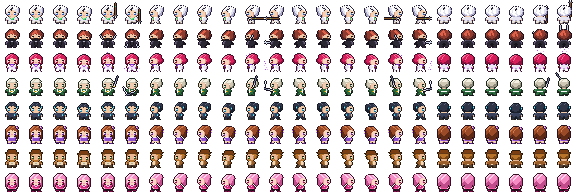
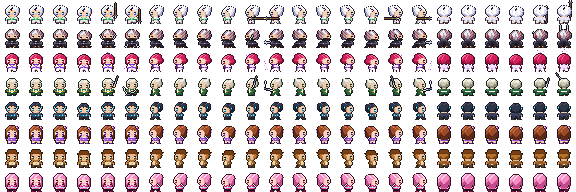
art: hero/NPC polish — Kavega grey+crimson hair, trench-coat tails (per-char legs), leather boots; belts with buckles

Changed region(s): [[0.0, 0.1562, 1.0, 0.25]]

diff --git a/tools/mc-sprites/chibi_art.py b/tools/mc-sprites/chibi_art.py
@@ -510,3 +510,56 @@ KYUT = dict(
 CHARS = {'spearman': NOF, 'rogue': KAV, 'mage': MAR, 'warrior': VEL, 'alzi': ALZI, 'leyr': LEYR, 'petr': PETR, 'kyut': KYUT}
 # у Мариэль, Лэйр и Кьют вместо брюк — юбка/платье: верх «ног» в цвете ткани
 SKIRT = {'mage': 'B', 'leyr': 'B', 'kyut': 'B'}
+
+# =============== полировка v2 (арт-перерисовка): детали одежды, Кавега ===============
+def _sub(rows, fn):
+    return [''.join(fn(x, y, ch) for x, ch in enumerate(r)) for y, r in enumerate(rows)]
+
+# Кавега: волосы — серые с прядями багрово-каштанового (Q/q), сапоги кожаные с пряжкой, длинные полы плаща (свои «ноги»).
+KAV['pal'].update({'1': '#eceaf2', '2': '#a8a3b6', '3': '#5d566a', 'Q': '#c23a2e', 'q': '#7a2130',
+                   'K': '#5b3a2c', 'k': '#2e1c18', 'Y': '#d7b26a'})
+def _kav_hair(x, y, ch):
+    if y > 11: return ch
+    # мелирование: серая основа, правая сторона — багрово-каштановые пряди, плюс одна прядь у лица слева
+    if ch in '23' and ((x >= 9 and (x + y) % 3 == 0) or (x in (3, 4) and 5 <= y <= 9)):
+        return 'Q' if ch == '2' else 'q'
+    return ch
+for _d in ('down', 'left', 'up'): KAV[_d] = _sub(KAV[_d], _kav_hair)
+KAV['legs'] = {
+    'down': [
+        ["..oBBPPppPPPBo..",
+         "..oCBPpooKYKCBo.",
+         "..oCoKYKo.okkoo."],
+        ["..oBBPPppPPBBo..",
+         "..oCBoKYooYKoBCo"[:16],
+         "..oCoKKkooKKkoC."],
+        ["..oBBPPPppPPBBo.",
+         ".oBCKYKoopPPoCo.",
+         ".oCookko.oKYKoo."],
+    ],
+    'left': [
+        ["...oPPPPPPpoBBo.",
+         "..oKPPo.oPpoCBBo",
+         "..oKYo...oKYoCCo"],
+        ["....oPPPPpoBBo..",
+         "....oPPopPoCBBo.",
+         "....oKYoKYo.oCCo"],
+        ["....oPPPPpoBBBo.",
+         ".....oPPpoCBBo..",
+         ".....oKYKko.oo.."],
+    ],
+}
+KAV['legs']['up'] = KAV['legs']['down']
+
+# всем героям/NPC атласа: пояс с пряжкой на последней строке корпуса (вид спереди/сбоку) и блик на носке обуви
+def _belt(rows, row=16):
+    r = list(rows[row])
+    inner = [i for i, ch in enumerate(r) if ch in 'ABC']
+    if len(inner) >= 4:
+        for i in inner: r[i] = 'x'
+        mid = (inner[0] + inner[-1]) // 2
+        r[mid] = 'X'
+    rows = list(rows); rows[row] = ''.join(r); return rows
+for _c in CHARS.values():
+    for _d in ('down', 'left'):
+        _c[_d] = _belt(_c[_d], 15)

diff --git a/tools/mc-sprites/gen_chars.py b/tools/mc-sprites/gen_chars.py
@@ -22,7 +22,7 @@ def hx(h):
     h = h.lstrip('#'); return tuple(int(h[i:i + 2], 16) for i in (0, 2, 4)) + (255,)
 
 def figure(c, d, leg, breathe=False):
-    legs = A.LEGS[d][leg]
+    legs = c.get('legs', A.LEGS)[d][leg]
     rows = list(c[d]) + list(legs)
     if breathe:  # кивок: голова на 1 px ниже, шея «уходит» в воротник
         rows = [rows[0]] + rows[0:12] + rows[13:]
